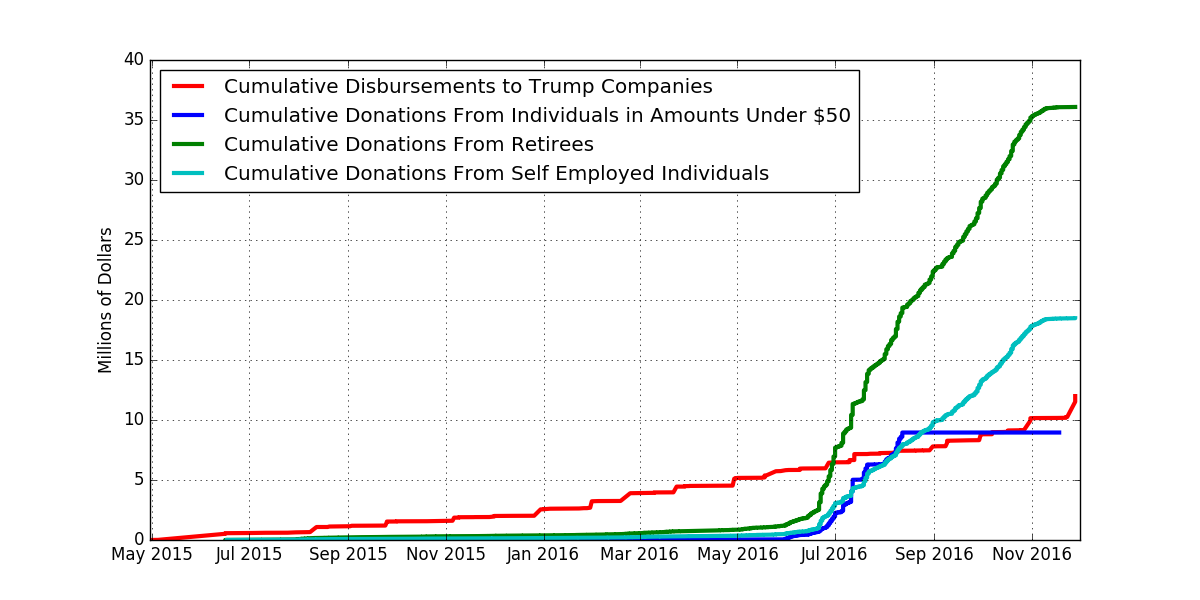
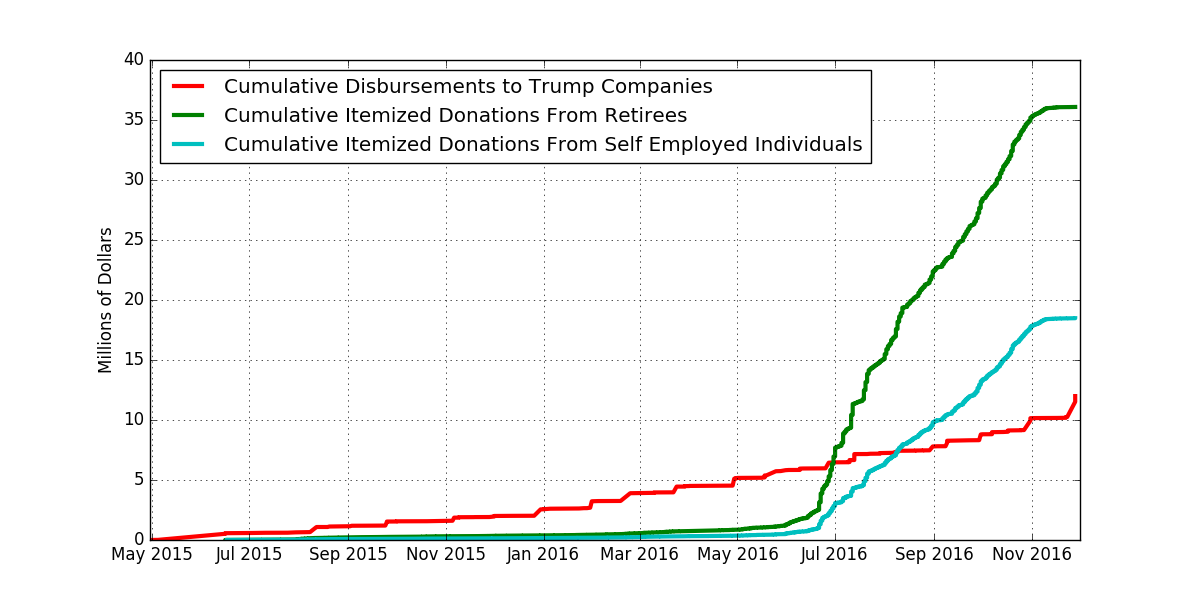
Updated code for Trump campaign finances

diff --git a/Utilities/utlUtilities.py b/Utilities/utlUtilities.py
@@ -74,12 +74,15 @@ def plotShapely(geom,ax,proj=None,scale=None,shift=None,bbox=None,color='k',face
     
     return ax
 
-def plotGDF(fname,gdf,projection,colorby=None,boolDict=None,colorCol=None,cmap=None,cbar=True,cmapScale=1.,title=None,linewidth=0.5,climits=None):
+def plotGDF(fname,gdf,projection,colorby=None,boolDict=None,colorCol=None,cmap=None,cbar=True,cmapScale=1.,title=None,linewidth=0.5,climits=None,cfmt="%3.1f"):
     if projection == "USALL":
         #use Albers equal area projection for contiguous 48, local state plane projections for HI and AK
         proj   = pyproj.Proj("+proj=aea +lat_1=29.5 +lat_2=45.5 +lat_0=37.5 +lon_0=-96 +x_0=0 +y_0=0 +datum=NAD83 +units=m +no_defs")
         projHI = pyproj.Proj("+init=EPSG:26962")
         projAK = pyproj.Proj("+init=EPSG:26935")
+    elif projection == "LOWER48":
+        #use Albers equal area projection for contiguous 48
+        proj   = pyproj.Proj("+proj=aea +lat_1=29.5 +lat_2=45.5 +lat_0=37.5 +lon_0=-96 +x_0=0 +y_0=0 +datum=NAD83 +units=m +no_defs")
 
     # data range
     if colorby == "data":
@@ -108,6 +111,11 @@ def plotGDF(fname,gdf,projection,colorby=None,boolDict=None,colorCol=None,cmap=N
                 shift = None
                 cProj = proj
                 bbox = None
+        elif projection == "LOWER48":
+            scale = None
+            shift = None
+            cProj = proj
+            bbox = None
 
         if colorby is None:
             ax = plotShapely(geom,ax,proj=cProj,scale=scale,shift=shift,onlyIdx=onlyIdx,color='k',linewidth=linewidth)
@@ -137,7 +145,7 @@ def plotGDF(fname,gdf,projection,colorby=None,boolDict=None,colorCol=None,cmap=N
         ticklabels = np.linspace(llim,ulim,ncolors)
         colorbar = fig.colorbar(mappable,orientation='horizontal',shrink=0.7,pad=0.)
         colorbar.set_ticks(np.linspace(0, ncolors, ncolors))
-        ticklabels = ["%3.1f" % x for x in np.nditer(ticklabels)]
+        ticklabels = [cfmt % x for x in np.nditer(ticklabels)]
         if llim > dmin*cmapScale:
             ticklabels[0] += "-"
         if ulim < dmax*cmapScale:
@@ -150,4 +158,92 @@ def plotGDF(fname,gdf,projection,colorby=None,boolDict=None,colorCol=None,cmap=N
     fig.savefig(fname)
     plt.close()
     return
+#Compute efficiency gap
+def getEfficiencyGap(df):
+    demWinnersIdx = df[df['dem_votes'] > df['rep_votes']].index.tolist()
+    repWinnersIdx = df[df['dem_votes'] < df['rep_votes']].index.tolist()
+
+    dem_votes   = np.sum(df.dem_votes.values)
+    rep_votes   = np.sum(df.rep_votes.values)
+    total_votes   = np.sum(df.dem_votes.values)+np.sum(df.rep_votes.values)
+    total_votesEV = np.sum(df.votes_total.values*df.electoral_votes.values)
+    #Wasted votes are votes for the losing party in a state, as well as votes beyond what was neccesary for the state win
+    demWasted = np.sum(df.dem_votes.values[repWinnersIdx]) + np.sum(df.dem_votes.values[demWinnersIdx]-df.rep_votes.values[demWinnersIdx]-1)
+    repWasted = np.sum(df.rep_votes.values[demWinnersIdx]) + np.sum(df.rep_votes.values[repWinnersIdx]-df.dem_votes.values[repWinnersIdx]-1)
+    EG = 100.*float(demWasted-repWasted)/float(total_votes)
+    
+    demWastedEV = np.sum(df.dem_votes.values[repWinnersIdx]*df.electoral_votes.values[repWinnersIdx]) + np.sum((df.dem_votes.values[demWinnersIdx]-df.rep_votes.values[demWinnersIdx]-1)*df.electoral_votes.values[demWinnersIdx])
+    repWastedEV = np.sum(df.rep_votes.values[demWinnersIdx]*df.electoral_votes.values[demWinnersIdx]) + np.sum((df.rep_votes.values[repWinnersIdx]-df.dem_votes.values[repWinnersIdx]-1)*df.electoral_votes.values[repWinnersIdx])
+    EGEV = 100.*float(demWastedEV-repWastedEV)/float(total_votesEV)
+
+    demVotePct  = 100.*np.sum(df.dem_votes.values)/float(total_votes)
+    demStatePct = 100.*float(len(demWinnersIdx))/51.
+    demEVotePct = 100.*float(np.sum(df.electoral_votes.values[demWinnersIdx]))/538.
+    return demWasted,repWasted,EG,EGEV,demVotePct,demStatePct,demEVotePct
+
+#Compute votes Evotes
+def getVotesEvotesCurve(df,swingRange,n):
+    #get original vote percentages
+    increment = df.dem_votes.values*swingRange/float(n)
+    
+    #start at lower end
+    df["dem_votes"] -= increment*n
+    df["rep_votes"] += increment*n
+    demWinnersIdx = df[df['dem_votes'] > df['rep_votes']].index.tolist()
+    total_votes   = np.sum(df.dem_votes.values)+np.sum(df.rep_votes.values)
+    demVoteFrac   = np.sum(df.dem_votes.values)/float(total_votes)
+    demVotes  = [demVoteFrac]
+    demEVotes = [float(np.sum(df.electoral_votes.values[demWinnersIdx]))/538.]
+    for i in range(2*n):
+        df["dem_votes"] += increment
+        df["rep_votes"] -= increment
+        total_votes   = np.sum(df.dem_votes.values)+np.sum(df.rep_votes.values)
+        demVoteFrac   = np.sum(df.dem_votes.values)/float(total_votes)
+        demVotes.append(demVoteFrac)
+        demWinnersIdx = df[df['dem_votes'] > df['rep_votes']].index.tolist()
+        demEVotes.append(float(np.sum(df.electoral_votes.values[demWinnersIdx]))/538.)
+
+    #return as percentage
+    demVotes = np.array(demVotes)*100.
+    demEVotes = np.array(demEVotes)*100.
+
+    return demVotes,demEVotes
+
+def getSVAsymmetry(V,S):
+    #Find excess seats at 50% vote
+    idx = np.argmin(np.abs(V-50.))
+    needInterp = True
+    if V[idx] < 50.:
+        idx1 = idx
+        idx2 = idx+1
+    elif V[idx] >50.:
+        idx1 = idx-1
+        idx2 = idx
+    else:
+        needInterp = False
+
+    if needInterp:
+        excessAt50 = S[idx1] + (50.-V[idx1])*(S[idx2]-S[idx1])/(V[idx2]-V[idx1])
+    else:
+        excessAt50 = S[idx]
+
+
+    #Find votes needed for a majority of seats
+    idx = np.argmin(np.abs(S-50.))
+    needInterp = True
+    if S[idx] < 50.:
+        idx1 = idx
+        idx2 = idx+1
+    elif S[idx] >50.:
+        idx1 = idx-1
+        idx2 = idx
+    else:
+        needInterp = False
+
+    if needInterp:
+        votesForMaj = V[idx1] + (50.-S[idx1])*(V[idx2]-V[idx1])/(S[idx2]-S[idx1])
+    else:
+        votesForMaj = V[idx]
+
+    return excessAt50,votesForMaj
     

diff --git a/Jan2017_TrumpFinances/TrumpExpenses.py b/Jan2017_TrumpFinances/TrumpExpenses.py
@@ -143,12 +143,10 @@ fig = plt.figure(figsize=(12,6))
 ax  = fig.add_subplot(111)
 disbDates,cumDisbs         = getCumulativeDisbursements(dfTrump)
 ax.plot(disbDates,cumDisbs,label="Cumulative Disbursements to Trump Companies",color='r',linewidth=3)
-donationDates,cumDonations = getCumulativeDonations(dfDonationsLT50)
-ax.plot(donationDates,cumDonations,label="Cumulative Donations From Individuals in Amounts Under $50",color='b',linewidth=3)
 donationDates,cumDonations = getCumulativeDonations(dfDonationsRet)
-ax.plot(donationDates,cumDonations,label="Cumulative Donations From Retirees",color='g',linewidth=3)
+ax.plot(donationDates,cumDonations,label="Cumulative Itemized Donations From Retirees",color='g',linewidth=3)
 donationDates,cumDonations = getCumulativeDonations(dfDonationsSE)
-ax.plot(donationDates,cumDonations,label="Cumulative Donations From Self Employed Individuals",color='c',linewidth=3)
+ax.plot(donationDates,cumDonations,label="Cumulative Itemized Donations From Self Employed Individuals",color='c',linewidth=3)
 ax.set_ylabel("Millions of Dollars")
 ax.grid()
 ax.set_xlim((disbDates[0],datetime(2016, 12, 1, 0, 0)))
